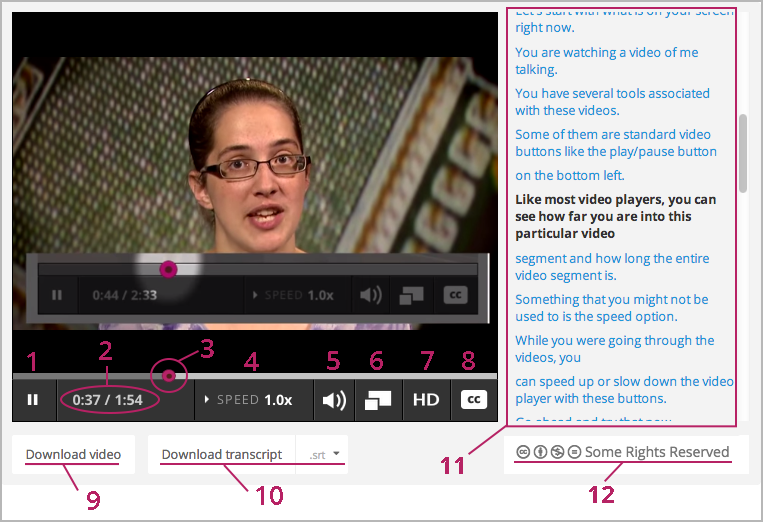
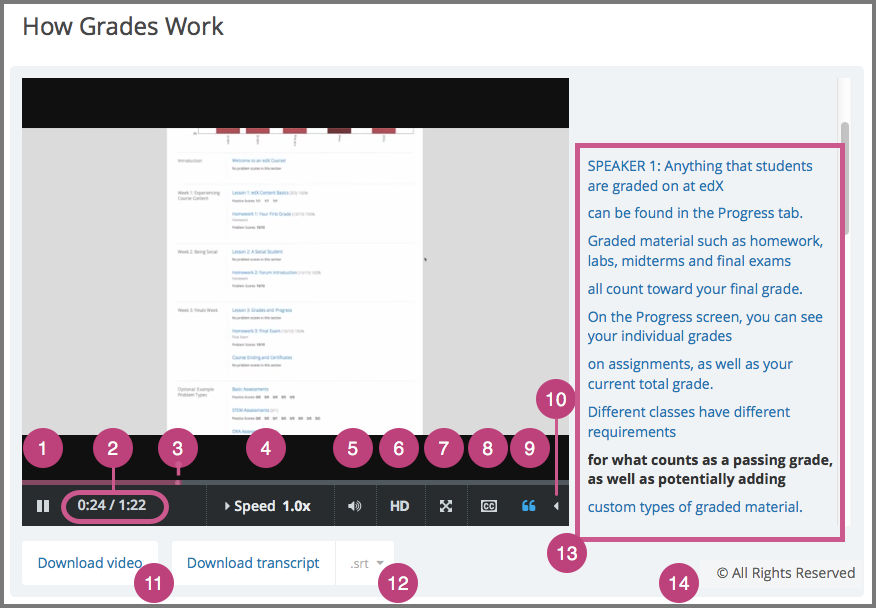
Updates the description of the video player controls
Fixes DOC-2810

diff --git a/en_us/shared/students/SFD_video_player.rst b/en_us/shared/students/SFD_video_player.rst
@@ -12,55 +12,80 @@ not have seen.
 The following image shows the video player in the middle of a video, followed
 by an explanation of each option or control on the video player.
 
+.. note:: The illustration that follows shows the video player for a video
+   that has all of the possible features available. Only the controls that
+   apply to a specific video will actually be present when you use the video
+   player in a course.
+
 .. image:: ../../shared/students/Images/Video_Intro.png
   :width: 600
-  :alt: Image of video player with call-outs
+  :alt: The edX video player with numbered call-outs for every possible
+      control.
 
-1. **Play/pause control**: You can play or pause the video by using this
-   control.
+1. **Play/pause**: You can play the video by selecting this control. Select
+   this control again to pause the video.
 
-2. **Time**: The first number indicates the time the video has played. The
-   second number indicates the total length of the video.
+2. **Time**: The first number indicates the length of time the video has
+   already played. The second number indicates the total length of the video.
 
-3. **Time slider**: You can drag this control to any point in the video if you
-   want to go back or skip ahead to a particular time.
+3. **Playback bar**: You can go to a different point in the video by selecting
+   and dragging this control or by using the left and right arrow keys.
 
-4. **Speed control**: If you want the video to play faster or slower, you can
+4. **Speed**: If you want the video to play faster or slower, you can
    select different speeds using this control.
 
-5. **Volume control**: You can use this control to change the volume of the
+5. **Volume**: You can use this control to change the volume of the
    video.
 
-6. **Full screen control**: You can expand the video to fill your browser
+6. **HD**: You can play the video in high-definition visual resolution by
+   selecting this option if HD quality is available for the video. This option
+   works best if you have a fast Internet connection. Select this control again
+   to play the video in standard resolution.
+
+7. **Full screen**: You can expand the video to fill your browser
    window by selecting this control. To return to default mode, press ESC on
-   your keyboard.
+   your keyboard or select this control again.
 
-7. **HD control**: Some videos have a high-definition option that you can use
-   if you have a fast internet connection. You only see this control if your
-   video has a high-definition option.
+8. **Closed caption**: You can show an overlaid transcript of the audio portion
+   of the file by selecting this control. Select this control again to hide the
+   captions.
 
-8. **Show transcript control**: You can show or hide the scrolling transcript
-   to the right of the video by selecting this control.
+9. **Show transcript**: You can show a complete, scrolling transcript of the
+   audio portion of the file to the right of the video by selecting this
+   control. Many course teams set video transcripts to play by default when
+   your video starts. Select this control again to hide the transcript.
 
-9. **Download video option**: This option allows you to download the video to
-   watch later. You only see this option if the video is available for
-   download.
+10. **Language menu**: You can select a different language for the closed
+    captions and the transcript with this control if translations are
+    available.
 
-10. **Download transcript option**: This option allows you to download a copy
-    of the video's transcript. You can download the transcript as a SubRip
-    (.srt) file or as a text (.txt) file. You can open files of both types in a
-    text editor such as Notepad. You only see this option if the transcript is
-    available for download.
+    .. image:: ../../shared/students/Images/Video_language_menu.png
+      :alt: A language menu with choices for English or Chinese.
+      :width: 150
 
-11. **Transcript**: The transcript for the video plays by default when your
-    video starts. You can scroll through the transcript and select any word to
-    go to that point in the video.
+11. **Download video**: You can download the video to watch later with this
+    option (if available for the video).
 
-12. **License**: If the course author has specified a license for the video
-    that is different than the course-wide license, license details appear at
-    the bottom of the video. For licenses that reserve some but not all rights,
-    you can select the license to open a web site with more information about
-    your rights. For more information, see :ref:`Course and Video Licenses`.
+12. **Download transcript**: You can download the video's transcript
+    with this option. You can download the transcript as a SubRip (.srt) file
+    or as a text (.txt) file. You can open files of both types in a text editor
+    such as Notepad.
+
+13. **Transcript**: You can scroll through the transcript and select any line
+    to go to that point in the video.
+
+14. **License or Copyright**: If the course team reserves rights or specifies a
+    Creative Commons license for the video that is different from the
+    course-wide license, that information appears below the video player. For
+    Creative Commons licenses, you can select the license to open a web site
+    with more information about your rights.
+
+    .. image:: ../../shared/students/Images/Video_rights.png
+      :alt: A Creative Commons license with the Attribution, Noncommercial, and
+       No Derivatives options.
+      :width: 200
+
+    For more information, see :ref:`Course and Video Licenses`.
 
 For a demonstration of the edX video player, see `Videos on edX`_ in the edX
 DemoX course.
